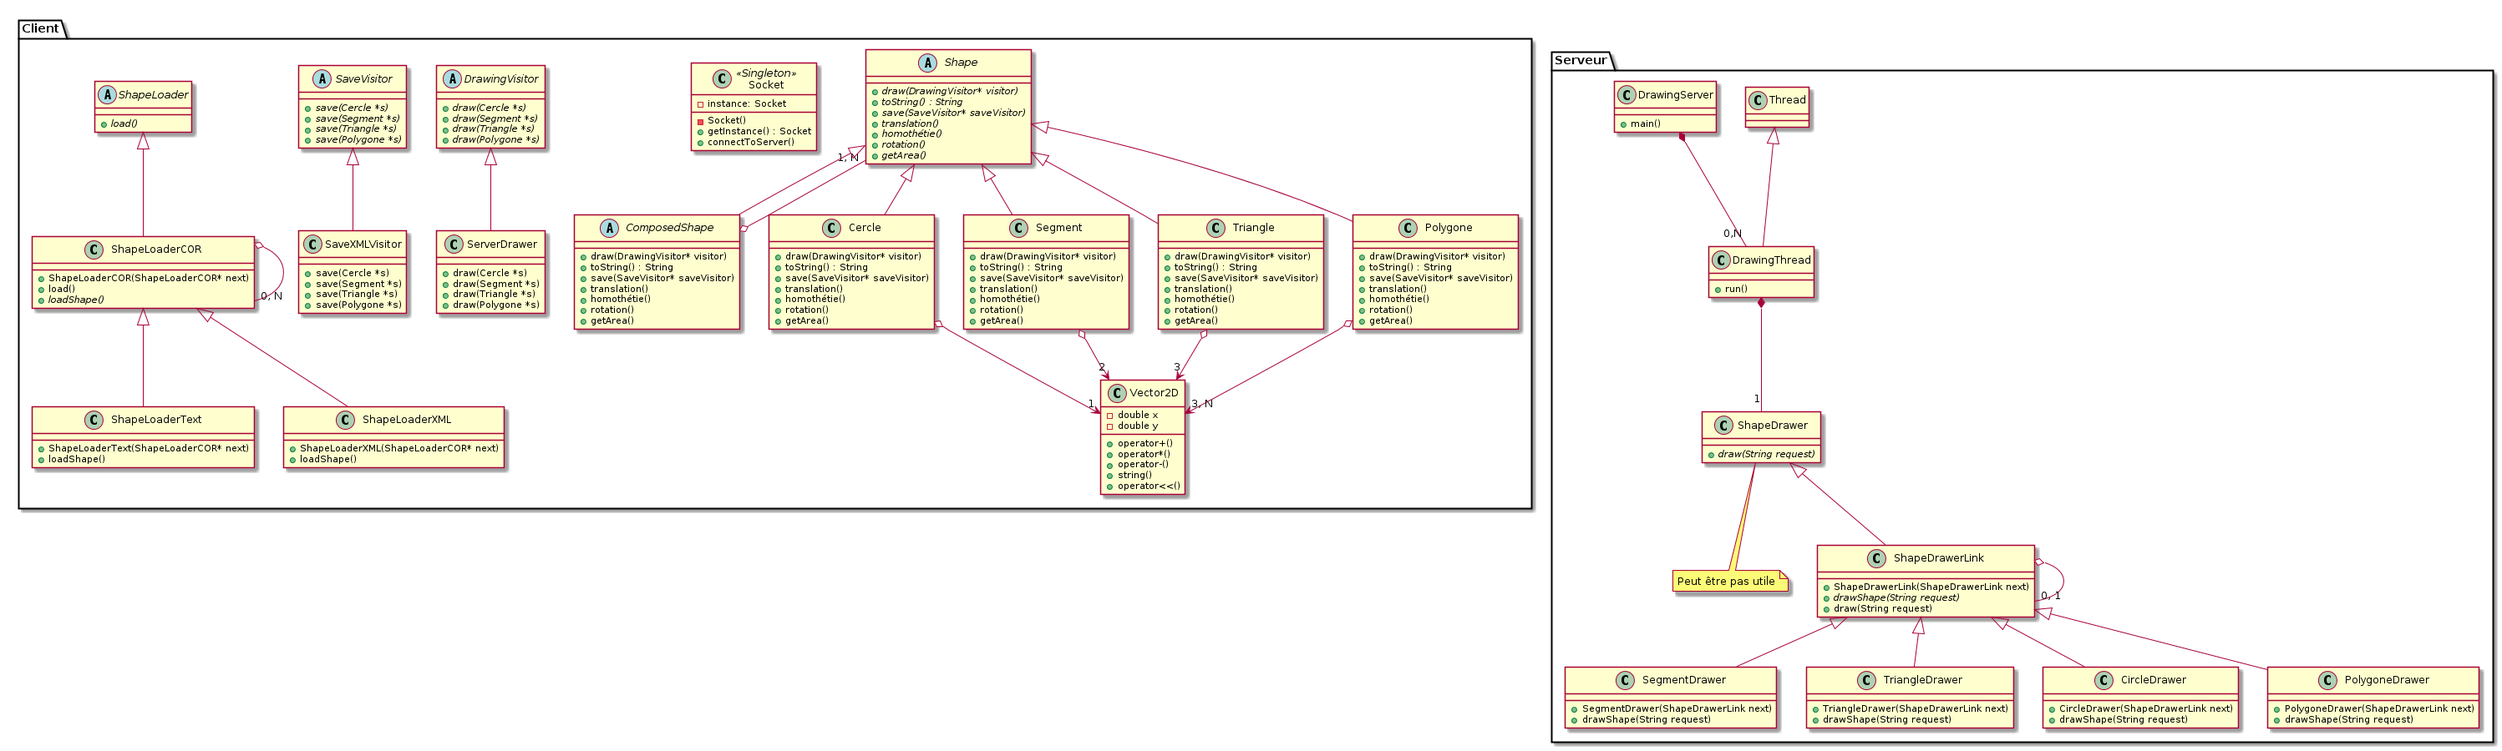
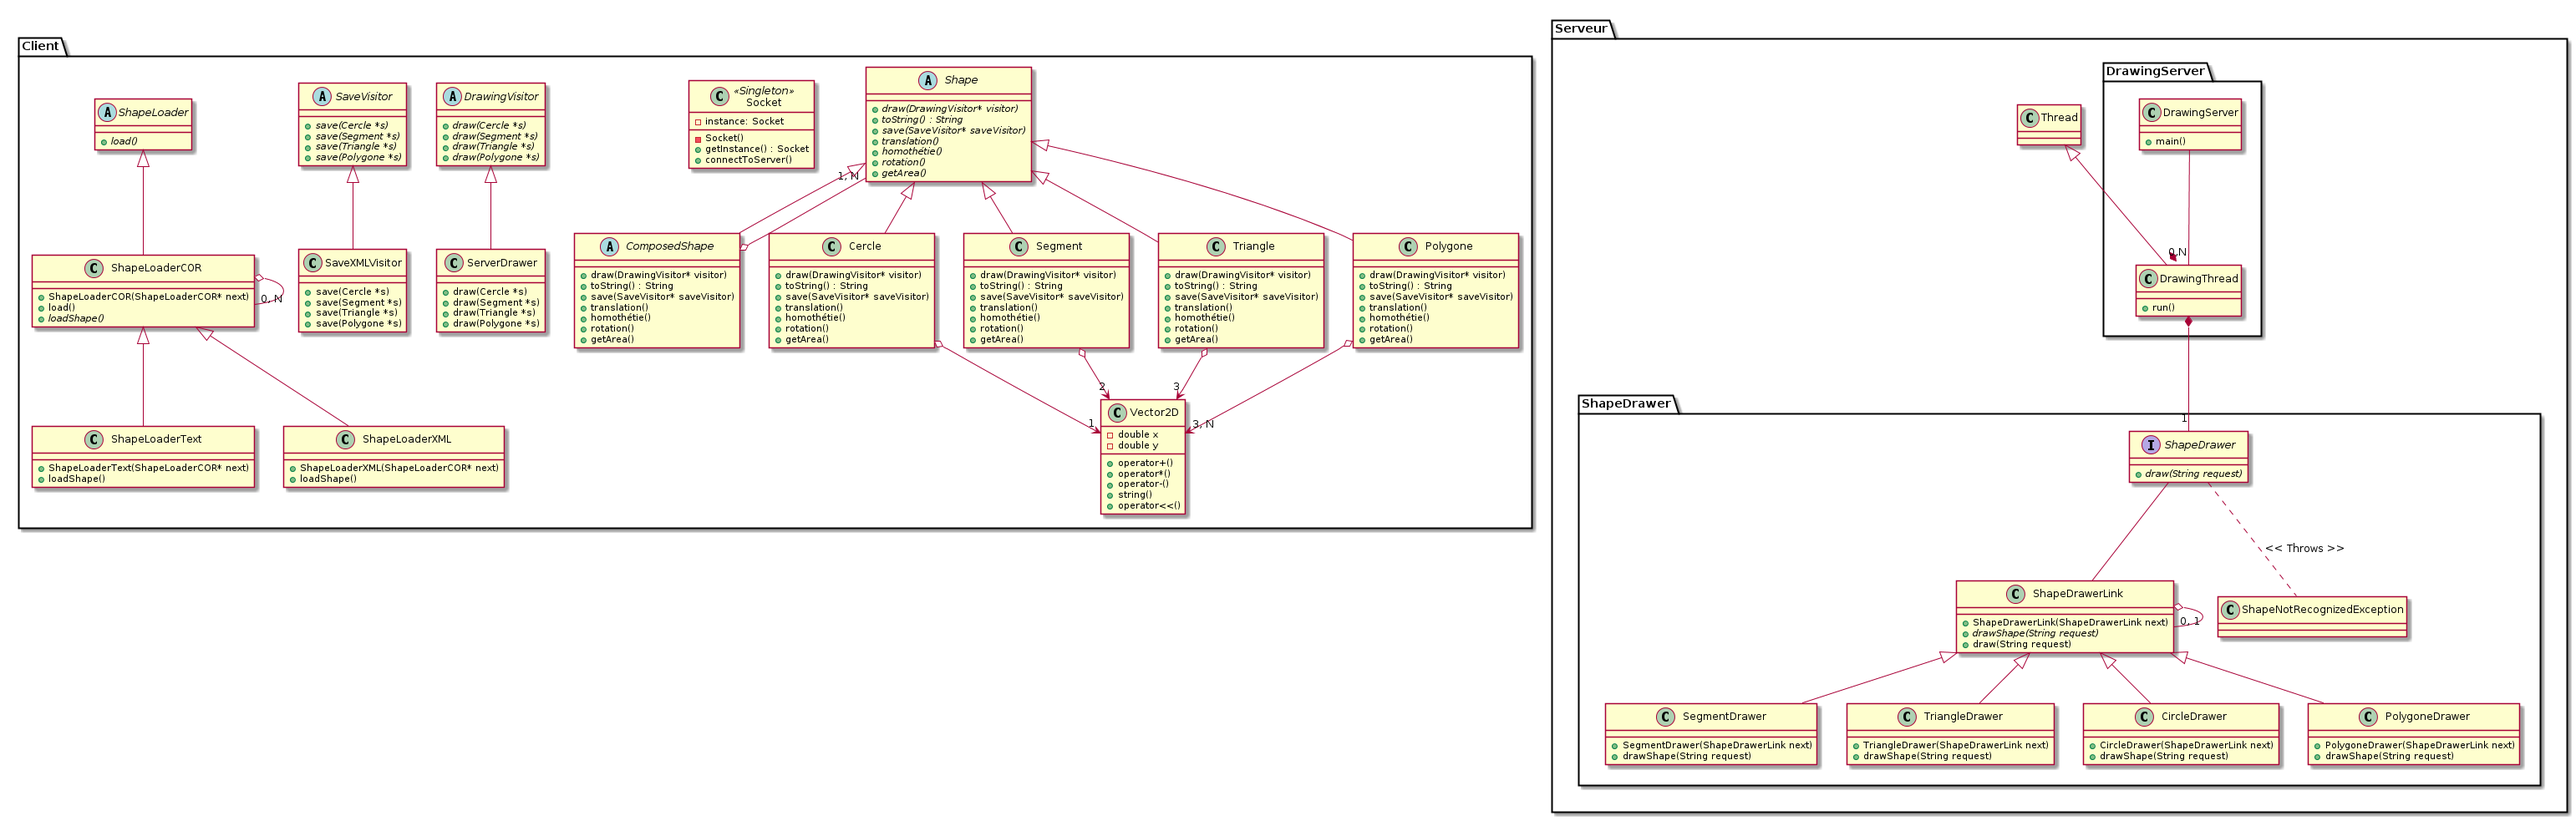
Update uml.png and the TODO

diff --git a/TODO.md b/TODO.md
@@ -85,3 +85,14 @@ futures versions.
 
 CoR pour le traitement des différents cas lors du chargement d'un
 fichier.
+
+8 - Implémentation CoR serveur
+===============================
+
+Une instance de la chaine par Thread ou une instance pour tous les Threads ?
+
+### Une instance par Thread
+
+**Pour :**
+
+*
